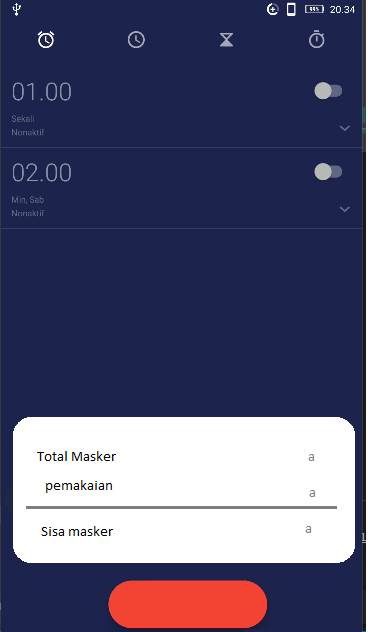
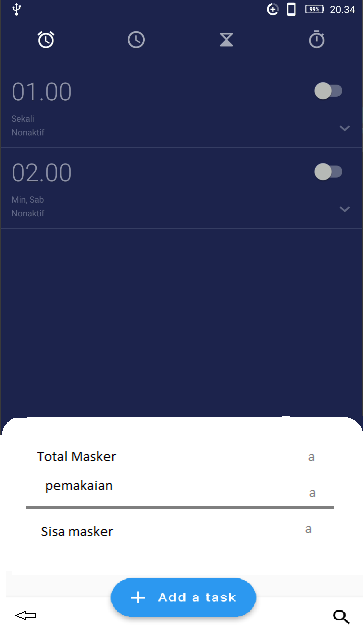
timer history

diff --git a/lib/pages/timerHistory.dart b/lib/pages/timerHistory.dart
@@ -1,0 +1,66 @@
+import 'package:e_Masker/control/router.dart';
+import 'package:e_Masker/pages/home.dart';
+import 'package:flutter/material.dart';
+
+class TimerHistoryPages extends StatelessWidget {
+  @override
+  Widget build(BuildContext context) {
+    final exstensionPane = Container(child: Text('awdw'));
+
+    final bottomSheet = Container(
+      height: 200,
+      width: 720,
+      decoration: BoxDecoration(
+        color: Colors.red,
+        borderRadius: BorderRadius.only(
+          topLeft: Radius.circular(20),
+          topRight: Radius.circular(20),
+        ),
+      ),
+      child: Text('total masker'),
+    );
+
+    return Scaffold(
+      body: Stack(
+        children: [
+          ListView(
+            shrinkWrap: true,
+            // padding: EdgeInsets.only(left: 24.0, right: 24.0),
+            children: <Widget>[
+              exstensionPane,
+            ],
+          ),
+          Align(
+            alignment: Alignment.bottomCenter,
+            child: bottomSheet,
+          ),
+        ],
+      ),
+      floatingActionButton: FloatingActionButton.extended(
+        elevation: 4.0,
+        icon: const Icon(Icons.add),
+        label: const Text('Masukkan Total Masker'),
+        onPressed: () {},
+      ),
+      floatingActionButtonLocation: FloatingActionButtonLocation.centerDocked,
+      bottomNavigationBar: BottomAppBar(
+        child: new Row(
+          mainAxisSize: MainAxisSize.max,
+          mainAxisAlignment: MainAxisAlignment.spaceBetween,
+          children: <Widget>[
+            IconButton(
+              icon: Icon(Icons.home),
+              onPressed: () {
+                Router.changePage(context, HomePages());
+              },
+            ),
+            IconButton(
+              icon: Icon(Icons.more_vert),
+              onPressed: () {},
+            )
+          ],
+        ),
+      ),
+    );
+  }
+}

diff --git a/lib/pages/tab.dart b/lib/pages/tab.dart
@@ -1,5 +1,6 @@
 import 'package:e_Masker/control/style.dart';
 import 'package:e_Masker/pages/timer.dart';
+import 'package:e_Masker/pages/timerHistory.dart';
 import 'package:flutter/material.dart';
 
 class TabPages extends StatefulWidget {
@@ -8,6 +9,7 @@ class TabPages extends StatefulWidget {
 }
 
 class _TabPagesState extends State<TabPages> {
+  
   @override
   Widget build(BuildContext context) {
     return MaterialApp(
@@ -24,9 +26,8 @@ class _TabPagesState extends State<TabPages> {
           appBar: AppBar(
             title: menu(),
           ),
-          // bottomNavigationBar: menu(),
           body: TabBarView(
-            children: [TimerPages(), TimerPages(), TimerPages()],
+            children: [TimerHistoryPages(), TimerPages(), TimerPages()],
           ),
         ),
       ),
@@ -35,7 +36,6 @@ class _TabPagesState extends State<TabPages> {
 
   Widget menu() {
     return Container(
-      // color: Color(0xFF3F5AA6),
       child: TabBar(
         labelColor: Colors.white,
         unselectedLabelColor: Colors.white70,
@@ -44,15 +44,12 @@ class _TabPagesState extends State<TabPages> {
         indicatorColor: Colors.blue,
         tabs: [
           Tab(
-            //...page timer history,
             icon: Icon(Icons.assignment),
           ),
           Tab(
-            //...page input total masker
             icon: Icon(Icons.edit),
           ),
           Tab(
-            //...page timer
             icon: Icon(Icons.alarm),
           )
         ],

diff --git a/lib/pages/home.dart b/lib/pages/home.dart
@@ -1,6 +1,7 @@
 import 'package:e_Masker/control/router.dart';
 import 'package:e_Masker/pages/child/list.dart';
 import 'package:e_Masker/pages/info.dart';
+import 'package:e_Masker/pages/tab.dart';
 import 'package:e_Masker/pages/timer.dart';
 import 'package:flutter/material.dart';
 
@@ -13,11 +14,7 @@ class _HomePagesState extends State<HomePages> {
   @override
   Widget build(BuildContext context) {
     return Scaffold(
-      appBar: AppBar(
-        centerTitle: true,
-        title: Text('Aplikasi e-Masker')
-      ),
-      
+      appBar: AppBar(centerTitle: true, title: Text('Aplikasi e-Masker')),
       drawer: Drawer(
         child: ListView(
           padding: EdgeInsets.zero,
@@ -51,8 +48,19 @@ class _HomePagesState extends State<HomePages> {
           ],
         ),
       ),
-      
       body: Center(child: ListPages()),
+      floatingActionButton: Padding(
+        padding: const EdgeInsets.only(bottom: 10.0),
+        child: FloatingActionButton.extended(
+          elevation: 4.0,
+          icon: const Icon(Icons.timer),
+          label: const Text('Timer History'),
+          onPressed: () {
+            Router.changePage(context, TabPages());
+          },
+        ),
+      ),
+      floatingActionButtonLocation: FloatingActionButtonLocation.centerDocked,
     );
   }
 }

diff --git a/lib/pages/welcome.dart b/lib/pages/welcome.dart
@@ -29,23 +29,6 @@ class _WelcomePagesState extends State<WelcomePages> {
       child: Image.asset('assets/images/logo-copy.png'),
     );
 
-    // final toHome = Padding(
-    //   padding: EdgeInsets.symmetric(vertical: 16.0),
-    //   child: Material(
-    //     shadowColor: Colors.lightBlueAccent.shade100,
-    //     child: MaterialButton(
-    //       minWidth: 200.0,
-    //       height: 42.0,
-    //       color: Colors.lightBlueAccent,
-    //       child:
-    //           Text('Selamat Datang !', style: TextStyle(color: Colors.white)),
-    //       onPressed: () {
-    //         Router.changePage(context, HomePages());
-    //       },
-    //     ),
-    //   ),
-    // );
-
     final toHome = Padding(
       padding: EdgeInsets.symmetric(vertical: 16.0),
       child: Container(
